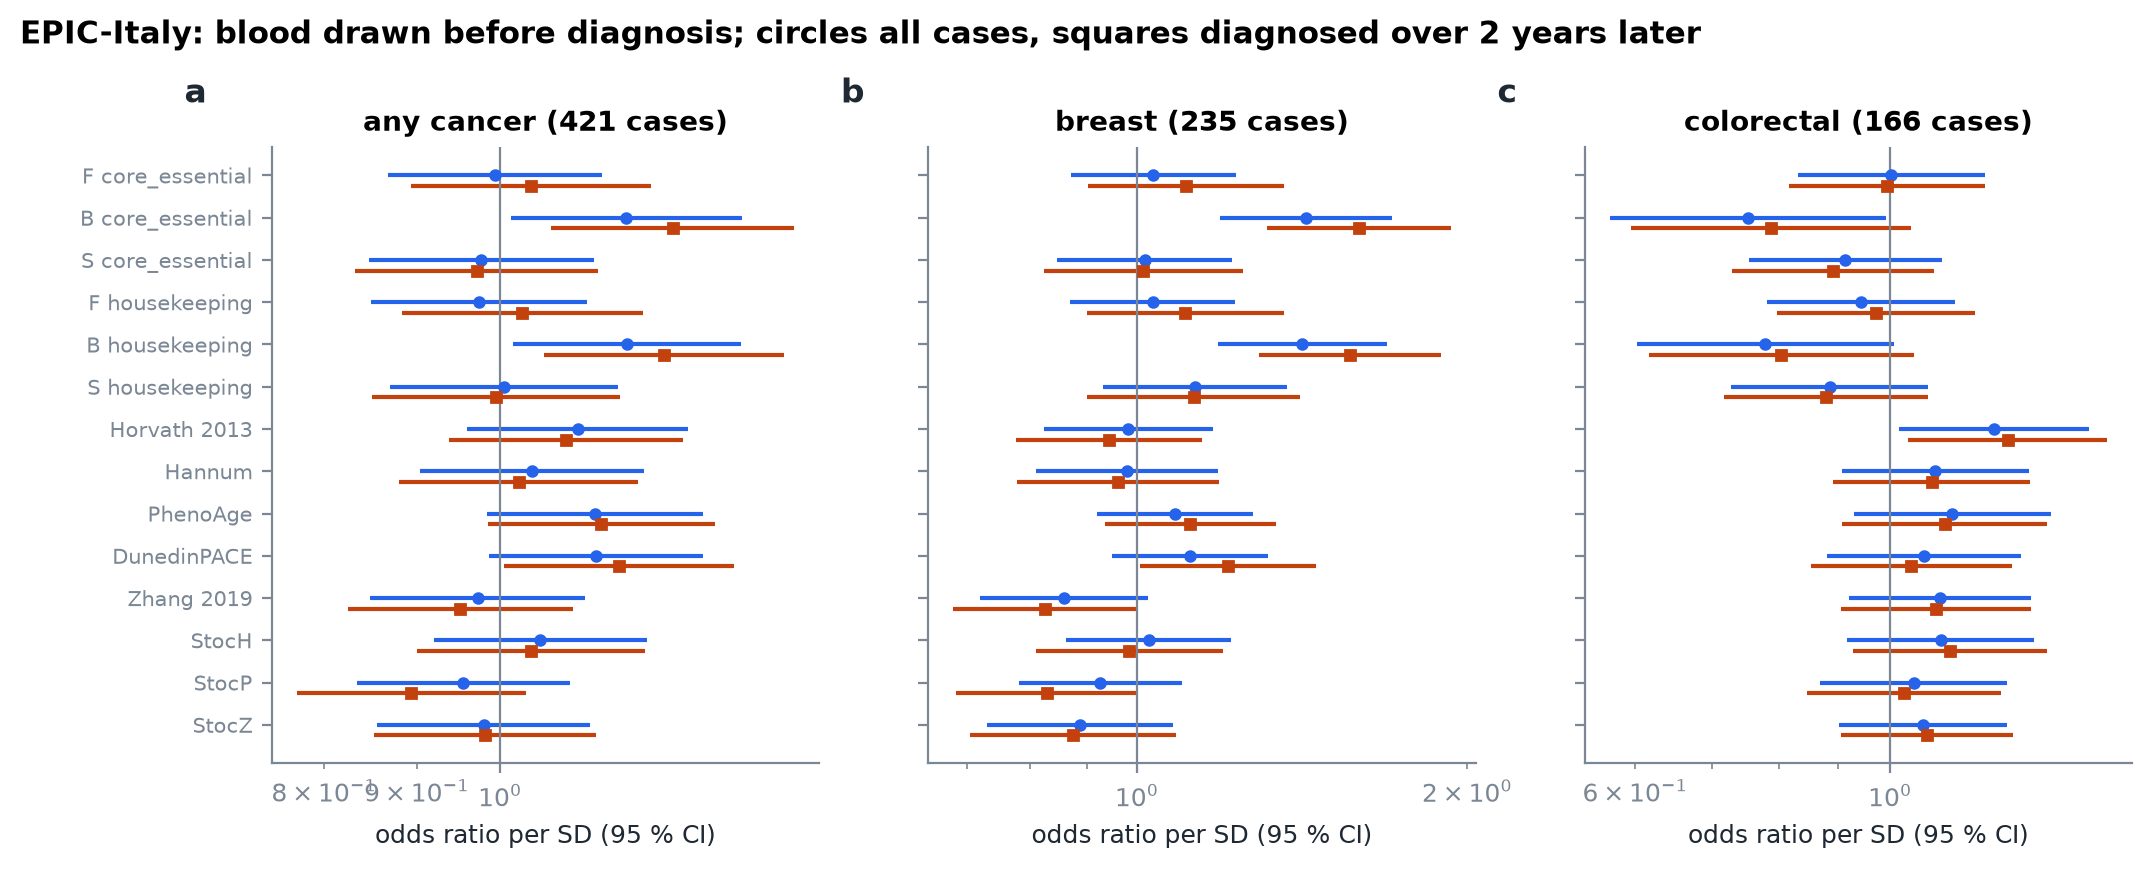
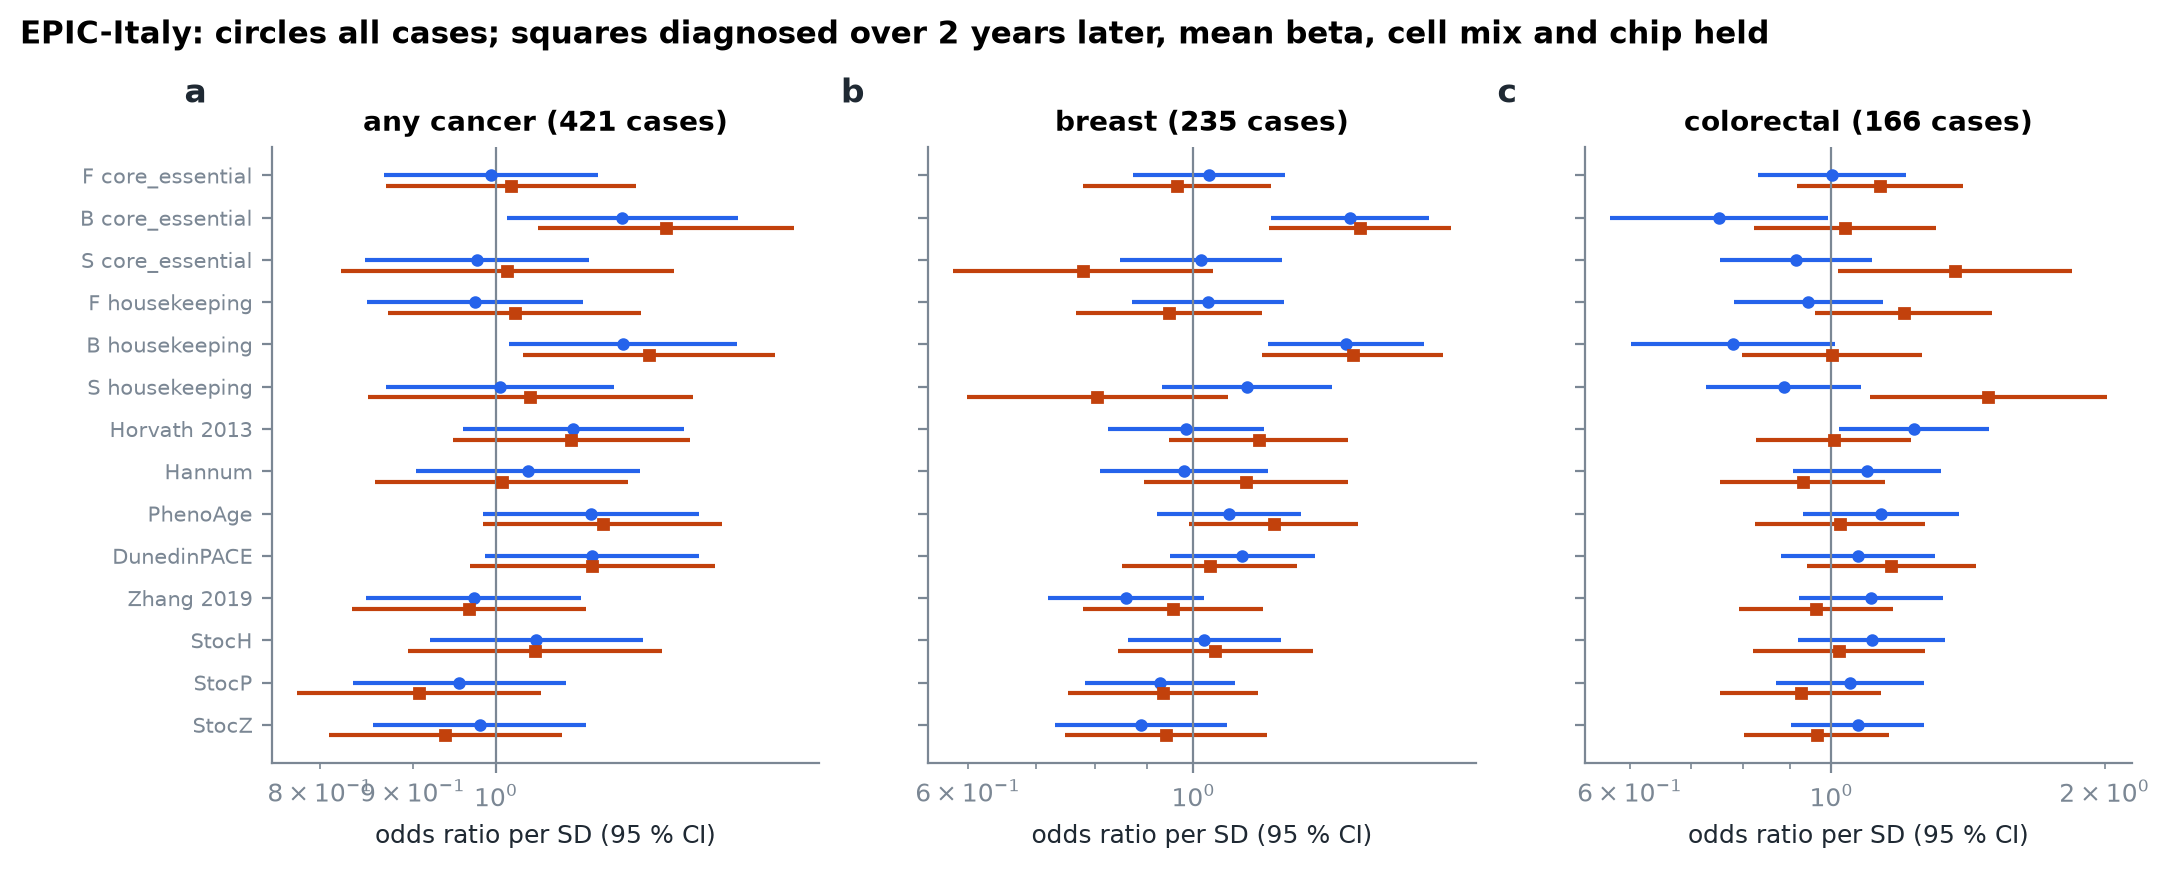
R46b: drift at unprotected promoters predicts breast cancer years ahead, robust to chip, cell mix, mean beta (C12)
Seat: entropy-age/lead
Claude-Session: https://claude.ai/code/session_01TJzjgJACUvbS1joxbZrgzk

diff --git a/docs/extension.md b/docs/extension.md
@@ -1361,6 +1361,32 @@ rodent data are Shavlakadze et al. 2026 (Sci Adv), which with Tyshkovskiy 2026 (
 directed change; Ibañez-Solé 2022 (eLife) found no consistent rise of transcriptional noise with age, in line with
 the unshared noise order. Only the explicit rank comparison is ours.
 
+## Drift at unprotected promoters predicts breast cancer years ahead (roadmap RM28, EPIC-Italy)
+
+The first prospective test (runs R46, R46b). EPIC-Italy (GSE51032): blood of 845 people drawn at enrolment, 421 of
+them diagnosed with cancer up to 14 years later (235 breast, 166 colorectal). Per person, the shield's share F, the
+drift of look-alike promoter CpGs B (each against everyone else) and eight published clocks; logistic regression
+of later cancer on each, with age and sex, then also with mean methylation over all array CpGs, 11 blood-cell
+fractions and the array chip held.
+
+- **The shield's share does not predict cancer** (odds ratio per SD 0.95-1.11, all p > 0.3).
+- **Drift B predicts breast cancer, and more strongly the earlier the blood was drawn**: per SD 1.43 for all
+  cases, 1.62 for cases diagnosed over 2 years later, 1.66 over 5 years later (women only, p 3e-4 to 1e-5). A
+  tumour already present at the draw would give the opposite pattern.
+- **It survives the adjustments**: with mean methylation, cell mix and chip held, 1.44 (1.17-1.76, p 6e-4) for
+  cases diagnosed over 2 years later. Cases are balanced over the 72 chips. Of 168 effects, only these pass a 5 %
+  false discovery rate.
+- **The clocks' signals here do not survive**: DunedinPACE for breast (1.21 -> 1.04) and Horvath for colorectal
+  (1.27 -> 1.01) were cell mix, chip or global methylation. Colorectal cancer has no B signal once adjusted.
+
+Prior work on this cohort: clock acceleration and later breast cancer (Durso et al. 2017, doi
+10.18632/oncotarget.15573); genome-wide hypomethylation before breast cancer (van Veldhoven et al. 2015, doi
+10.1186/s13148-015-0104-2; not replicated in NOWAC). B is neither: it survives mean methylation and beats the clocks.
+
+Reading: how far a woman's promoter CpGs have drifted from the population, at the unprotected look-alikes, marks
+breast-cancer risk years ahead, while the shield itself does not. One cohort; it needs a second (NOWAC or the
+Breakthrough Generations Study, both controlled access; SJLIFE open, but with a different population).
+
 ## Rapamycin pulls back the noise, exenatide nothing (roadmap RM27, RM12)
 
 Idea 3 of `docs/BEYOND_SHIELD.md`. A 2024 preprint (Perevoshchikova et al., doi 10.1101/2024.02.25.581928) reports

diff --git a/docs/CLAIMS.md b/docs/CLAIMS.md
@@ -142,3 +142,20 @@ a test with little power), **refuted**.
 - **Alternatives:** sample quality (promoter read share) dominates single-nucleus pseudobulk at these sizes.
 - **Separating test:** a cohort with per-sample quality metrics; sorted bulk ATAC.
 - **Status:** refuted as a clean readout for brain; weak in blood.
+
+## C12 — Drift at unprotected promoters in blood marks breast-cancer risk years ahead
+
+- **If true, we should see:** higher B in women later diagnosed with breast cancer, not weaker with more years
+  before diagnosis; robust to chip, cell mix and global methylation; replicated in a second cohort.
+- **We should not see:** the effect vanish with adjustment, shrink with lag (a tumour present at the draw), or
+  hinge on one batch.
+- **Observed:** EPIC-Italy (R46, R46b): odds ratio per SD 1.43 (all), 1.62 (over 2 years), 1.66 (over 5 years);
+  adjusted for mean beta, 11 cell fractions and chip 1.44 (p 6e-4); balanced over 72 chips; the shield share F
+  does not predict; clocks' signals do not survive adjustment.
+- **Alternatives:** (a) a cell type outside EpiDISH's 12 or a rare clone; (b) a cohort-specific artefact, since
+  van Veldhoven's global hypomethylation did not replicate in NOWAC; (c) reproductive or hormonal factors that
+  shift blood methylation and raise breast-cancer risk.
+- **Separating test:** a second prospective cohort (NOWAC, Breakthrough Generations, controlled access); sorted
+  cells; hormonal covariates.
+- **Status:** weak (one cohort), but survives every check at hand.
+

diff --git a/docs/RUN_LOG.md b/docs/RUN_LOG.md
@@ -52,6 +52,11 @@ commit it ran, its job ids, its scale and seed, and its result or its failure wi
 - R46b (commit 4e5c3b4; job 6441619) failed after 9 min: 72 chip dummies in a logistic fit went singular where a
   chip held only controls. Now the measure is centred within its chip instead, and the Newton step uses least
   squares (test added); resubmitted.
+- R46b rerun: commit 7656dd1; job 6442500, 10 min. Mean beta over all CpGs 0.533; 600 EpiDISH reference CpGs;
+  neutrophils 0.51. Breast cancer, diagnosed over 2 years after the draw, adjusted (mean beta, 11 cell fractions,
+  measure centred within chip): B housekeeping 1.44 (1.17-1.76, p 6e-4), B core essential 1.46 (p 3e-4); all cases
+  1.37-1.40 (p 0.001). DunedinPACE breast 1.21 -> 1.04, Horvath colorectal 1.27 -> 1.01, B colorectal 0.78 -> 1.00
+  once adjusted. Over all 168 effects, the 8 breast-B variants alone pass FDR 5 % (q 0.0004-0.027).
 
 ## R42 — survival in Vitality 90+ (RM28), 2026-11-12, partial
 

diff --git a/docs/ROADMAP.md b/docs/ROADMAP.md
@@ -137,6 +137,10 @@ incident cancers, time to diagnosis), SATSA S-BSST1206 (596 people, up to 8 draw
 Order: Vitality 90+ (small, a true survival test), EPIC-Italy, SJLIFE, SATSA (within-person change). Controlled
 cohorts with mortality (Generation Scotland, Lothian, Framingham, Normative Aging Study) need antonkulaga's
 application; links in the survey.
+- Done (R42): Vitality 90+ uninformative (mortality clocks fail too). Done (R46, R46b): EPIC-Italy, drift B
+  predicts breast cancer years ahead, robust to chip, cell mix and mean beta; the shield share does not. Next:
+  a second breast-cancer cohort (NOWAC or Breakthrough Generations, controlled: antonkulaga's application), and
+  SJLIFE deaths.
 
 ## RM31 — One cell type at a time: in-silico demultiplexing
 

diff --git a/docs/CHANGELOG.md b/docs/CHANGELOG.md
@@ -4,6 +4,7 @@ Newest first.
 
 ## Unreleased
 
+- 2026-11-12: R46b written up: drift B predicts breast cancer years ahead in EPIC-Italy, robust to chip, cell mix and mean methylation; claim C12, E29.
 - 2026-11-12: R47 written up (RM27 done): rapamycin pulls back the noisy part of aging in 7 of 8 tissues, exenatide nothing; not ordered by turnover. E28.
 - 2026-11-12: R46 logged (drift B predicts breast cancer years ahead in EPIC-Italy; shield F does not); `incident_cancer` gains mean beta, cell mix and chip adjustment; R46b planned.
 - 2026-11-12: R42 written up: in Vitality 90+ neither the shield nor the mortality clocks predict death (positive control fails; uninformative).

diff --git a/docs/RUNS.md b/docs/RUNS.md
@@ -20,8 +20,3 @@ grammar (`unattended`, `urgent`, `building`, `after <R-id>` or `after job <slurm
 - Read: `data/output/meth_expr_spread/coupling`: signed coupling (control), spread coupling against its null,
   spread-slope coupling across genes.
 
-## R46b — EPIC-Italy with mean methylation, cell mix and chip held (RM28)
-
-- What: `entropy-age figures cancer --scale paper --seed 42` after the adjustment commit.
-- Resources: compute partition, 4 cores, 64 GB; about 15 min (an extra pass over the 3 GB matrix for mean beta).
-- Read: `data/output/incident_cancer/effects`, rows with `adjusted` true: does B's breast-cancer effect survive?
